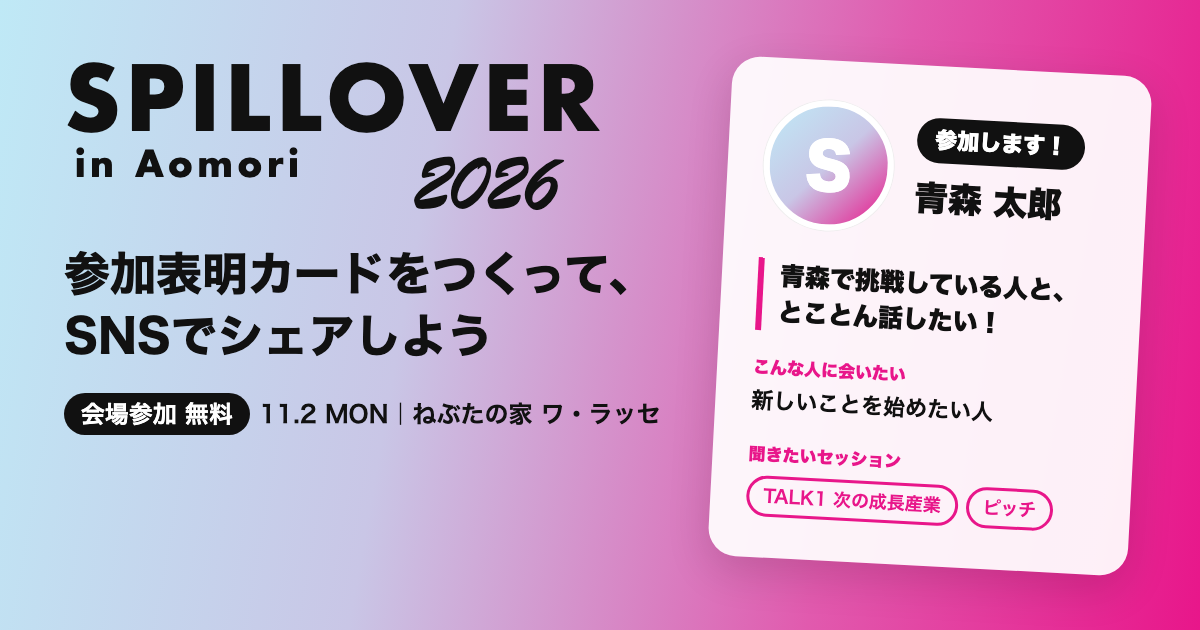
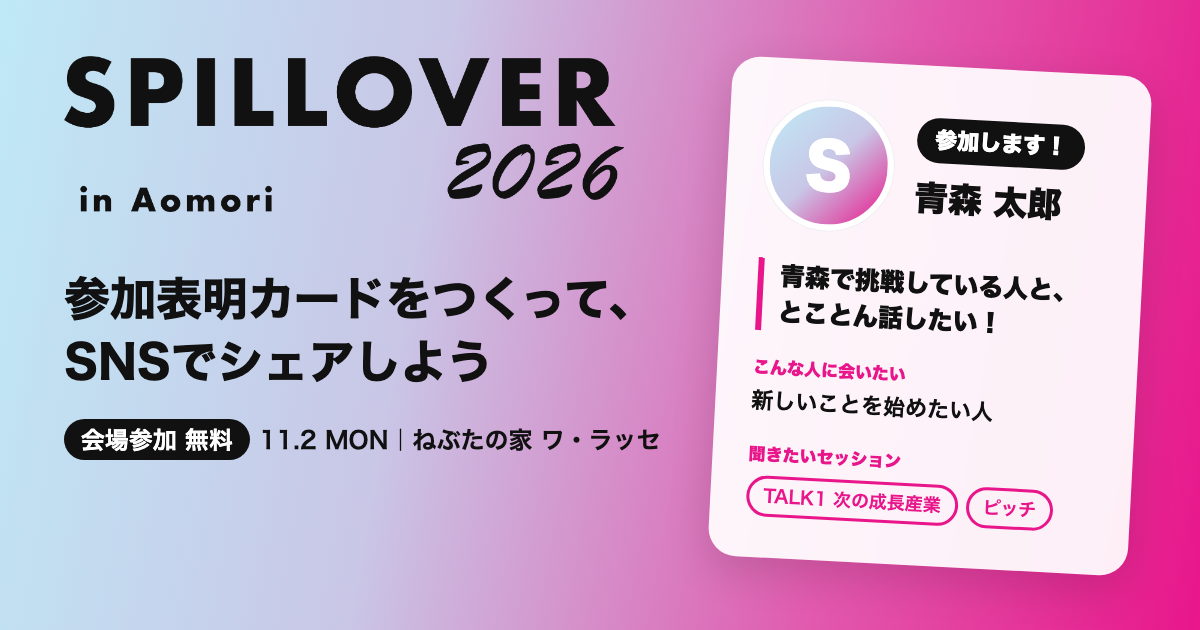
ロゴを告知画像と同一の画像に差し替え、写真選択の不具合を修正

Changed region(s): [[0.0308, 0.3921, 0.555, 0.754], [0.0308, 0.0905, 0.5242, 0.3317], [0.0617, 0.2413, 0.2467, 0.3317]]

diff --git a/index.html b/index.html
@@ -15,7 +15,7 @@
 <meta name="twitter:card" content="summary_large_image">
 <link rel="preconnect" href="https://fonts.googleapis.com">
 <link rel="preconnect" href="https://fonts.gstatic.com" crossorigin>
-<link href="https://fonts.googleapis.com/css2?family=Jost:wght@500;700&family=Kaushan+Script&family=Noto+Sans+JP:wght@500;700;900&display=swap" rel="stylesheet">
+<link href="https://fonts.googleapis.com/css2?family=Jost:wght@500;700&family=Noto+Sans+JP:wght@500;700;900&display=swap" rel="stylesheet">
 <style>
 :root{
   --pink:#E8168A; --ink:#111; --sub:#555; --line:#e3dfe8; --bg:#f7f5fa; --card:#fff;
@@ -23,6 +23,7 @@
 }
 *{box-sizing:border-box}
 [hidden]{display:none!important}
+.vh{position:absolute;width:1px;height:1px;opacity:0;overflow:hidden;clip:rect(0 0 0 0)}
 body{margin:0;background:var(--bg);color:var(--ink);font-family:'Noto Sans JP','Hiragino Sans',sans-serif;font-weight:500;-webkit-text-size-adjust:100%}
 header{background:var(--grad);padding:20px 16px 18px}
 header .in{max-width:1080px;margin:0 auto}
@@ -71,7 +72,7 @@ canvas.story{width:auto;max-width:100%;max-height:70vh}
 .actions .wide{grid-column:1/-1}
 .posttext{margin-top:12px}
 .posttext textarea{font-size:14px;min-height:120px}
-.toast{position:fixed;left:50%;bottom:24px;transform:translateX(-50%);background:var(--ink);color:#fff;padding:10px 18px;border-radius:999px;font-size:14px;font-weight:700;opacity:0;transition:opacity .2s;pointer-events:none}
+.toast{position:fixed;left:50%;bottom:24px;transform:translateX(-50%);max-width:calc(100% - 32px);text-align:center;background:var(--ink);color:#fff;padding:10px 18px;border-radius:16px;font-size:14px;font-weight:700;opacity:0;transition:opacity .2s;pointer-events:none}
 .toast.show{opacity:1}
 footer{max-width:1080px;margin:0 auto;padding:8px 16px 40px;font-size:12px;color:var(--sub);line-height:1.7}
 footer a{color:var(--pink)}
@@ -79,7 +80,7 @@ footer a{color:var(--pink)}
 </head>
 <body>
 <header><div class="in">
-  <h1>SPILLOVER <small>in Aomori 2026</small></h1>
+  <h1><img src="logo.png" alt="SPILLOVER in Aomori 2026" width="220" height="62" style="display:block;height:auto"></h1>
   <p>参加表明カードをつくって、SNSでシェアしよう</p>
 </div></header>
 
@@ -97,8 +98,8 @@ footer a{color:var(--pink)}
     <div class="field">
       <label class="t">写真<span class="opt">任意・端末の外には送信されません</span></label>
       <div class="photo-row">
-        <label class="btn dark" for="photo">写真を選ぶ</label>
-        <input type="file" id="photo" accept="image/*" hidden>
+        <button class="btn dark" id="pickPhoto" type="button">写真を選ぶ</button>
+        <input type="file" id="photo" accept="image/*" class="vh" tabindex="-1" aria-hidden="true">
         <button class="btn" id="clearPhoto" type="button" disabled>写真を外す</button>
       </div>
       <div class="zoom" id="zoomRow" hidden>
@@ -190,6 +191,8 @@ const $ = id => document.getElementById(id);
 const cv = $('cv'), ctx = cv.getContext('2d');
 const st = {type:'join', fmt:'square', img:null, zoom:1, ox:0, oy:0, postEdited:false};
 const qr = new Image(); qr.src = QR_SRC;
+// ロゴは告知画像（gen_images.py）と同じCSSで書き出した画像を使い、形を崩さない
+const logoImg = new Image(); logoImg.src = 'logo.png';
 
 // --- session chips ---
 const sessBox = $('sessions');
@@ -332,18 +335,8 @@ function drawAvatar(cx, cy, r, name) {
   ctx.beginPath(); ctx.arc(cx, cy, r, 0, Math.PI * 2); ctx.stroke();
 }
 
-function drawLogo(x, y, k) {
-  ctx.fillStyle = '#111'; ctx.textBaseline = 'alphabetic'; ctx.textAlign = 'left';
-  ctx.font = EN(700, 112 * k);
-  if ('letterSpacing' in ctx) ctx.letterSpacing = `${6 * k}px`;
-  ctx.fillText('SPILLOVER', x, y + 100 * k);
-  const sw = ctx.measureText('SPILLOVER').width;
-  ctx.font = EN(700, 40 * k);
-  if ('letterSpacing' in ctx) ctx.letterSpacing = `${5 * k}px`;
-  ctx.fillText('in Aomori', x + 8 * k, y + 168 * k);
-  if ('letterSpacing' in ctx) ctx.letterSpacing = '0px';
-  ctx.font = `400 ${92 * k}px 'Kaushan Script','Brush Script MT',cursive`;
-  ctx.textAlign = 'right'; ctx.fillText('2026', x + sw, y + 178 * k); ctx.textAlign = 'left';
+function drawLogo(x, y, w) {
+  if (logoImg.complete && logoImg.naturalWidth) ctx.drawImage(logoImg, x, y, w, w * logoImg.naturalHeight / logoImg.naturalWidth);
 }
 
 function render() {
@@ -360,10 +353,10 @@ function render() {
   if (story) {
     ctx.font = EN(700, 34); ctx.fillStyle = '#E8168A'; if ('letterSpacing' in ctx) ctx.letterSpacing = '6px';
     ctx.fillText('2026.11.2 MON ／ AOMORI', M, top); if ('letterSpacing' in ctx) ctx.letterSpacing = '0px';
-    drawLogo(M, top + 20, 1.12);
-    ctx.font = JP(900, 40); ctx.fillStyle = '#111'; ctx.fillText('青森から、挑戦と変革の文化をつくる。', M, top + 300);
+    drawLogo(M, top + 34, 860);
+    ctx.font = JP(900, 40); ctx.fillStyle = '#111'; ctx.fillText('青森から、挑戦と変革の文化をつくる。', M, top + 362);
   } else {
-    drawLogo(M, top - 10, .78);
+    drawLogo(M, top, 560);
     ctx.textAlign = 'right'; ctx.fillStyle = '#111';
     ctx.font = EN(700, 40); ctx.fillText('2026.11.2 MON', W - M, top + 62);
     ctx.font = JP(700, 26); ctx.fillText('ねぶたの家 ワ・ラッセ', W - M, top + 104);
@@ -371,7 +364,7 @@ function render() {
   }
 
   // card area
-  const cardTop = story ? 580 : 236;
+  const cardTop = story ? 630 : 236;
   const footH = story ? 280 : 190;
   const cardBot = H - (story ? 200 : 0) - footH;
   const pad = story ? 56 : 44;
@@ -432,12 +425,18 @@ function update() {
 }
 document.querySelectorAll('input,textarea').forEach(el => { if (el.id !== 'post' && el.id !== 'photo' && el.id !== 'zoom') el.addEventListener('input', update); });
 
+$('pickPhoto').addEventListener('click', () => { $('photo').value = ''; $('photo').click(); });
 $('photo').addEventListener('change', e => {
   const f = e.target.files[0]; if (!f) return;
   const url = URL.createObjectURL(f), im = new Image();
   im.onload = () => { st.img = im; st.zoom = 1; st.ox = st.oy = 0; $('zoom').value = 1;
     $('zoomRow').hidden = $('dragNote').hidden = false; $('clearPhoto').disabled = false; render(); };
-  im.onerror = () => toast('この画像は読み込めませんでした');
+  im.onerror = () => {
+    URL.revokeObjectURL(url);
+    // iPhoneの写真（HEIC）はSafari以外のPCブラウザでは読めない
+    const heic = /hei[cf]$/i.test(f.name) || /hei[cf]/i.test(f.type);
+    toast(heic ? 'HEIC形式の写真はこのブラウザで読めません。JPEGかPNGを選ぶか、スマホから作成してください' : 'この画像は読み込めませんでした。JPEGかPNGを選んでください', 5000);
+  };
   im.src = url;
 });
 $('clearPhoto').addEventListener('click', () => { st.img = null; $('photo').value = ''; $('zoomRow').hidden = $('dragNote').hidden = true; $('clearPhoto').disabled = true; render(); });
@@ -481,14 +480,13 @@ async function copy(text, quiet) {
   catch { $('post').select(); document.execCommand('copy'); if (!quiet) toast('投稿文をコピーしました'); }
 }
 $('copyBtn').addEventListener('click', () => copy($('post').value));
-let tt; function toast(m) { const t = $('toast'); t.textContent = m; t.classList.add('show'); clearTimeout(tt); tt = setTimeout(() => t.classList.remove('show'), 2400); }
+let tt; function toast(m, ms = 2400) { const t = $('toast'); t.textContent = m; t.classList.add('show'); clearTimeout(tt); tt = setTimeout(() => t.classList.remove('show'), ms); }
 
 // --- boot: wait for web fonts so canvas text uses them ---
 update();
-qr.onload = render;
+qr.onload = render; logoImg.onload = render;
 Promise.all([
   document.fonts.load("700 40px 'Jost'"), document.fonts.load("500 24px 'Jost'"),
-  document.fonts.load("400 80px 'Kaushan Script'"),
   document.fonts.load("900 40px 'Noto Sans JP'", '参加します'), document.fonts.load("700 30px 'Noto Sans JP'", 'あ'),
   document.fonts.load("500 20px 'Noto Sans JP'", 'あ'),
 ]).then(() => document.fonts.ready).then(render, render);
